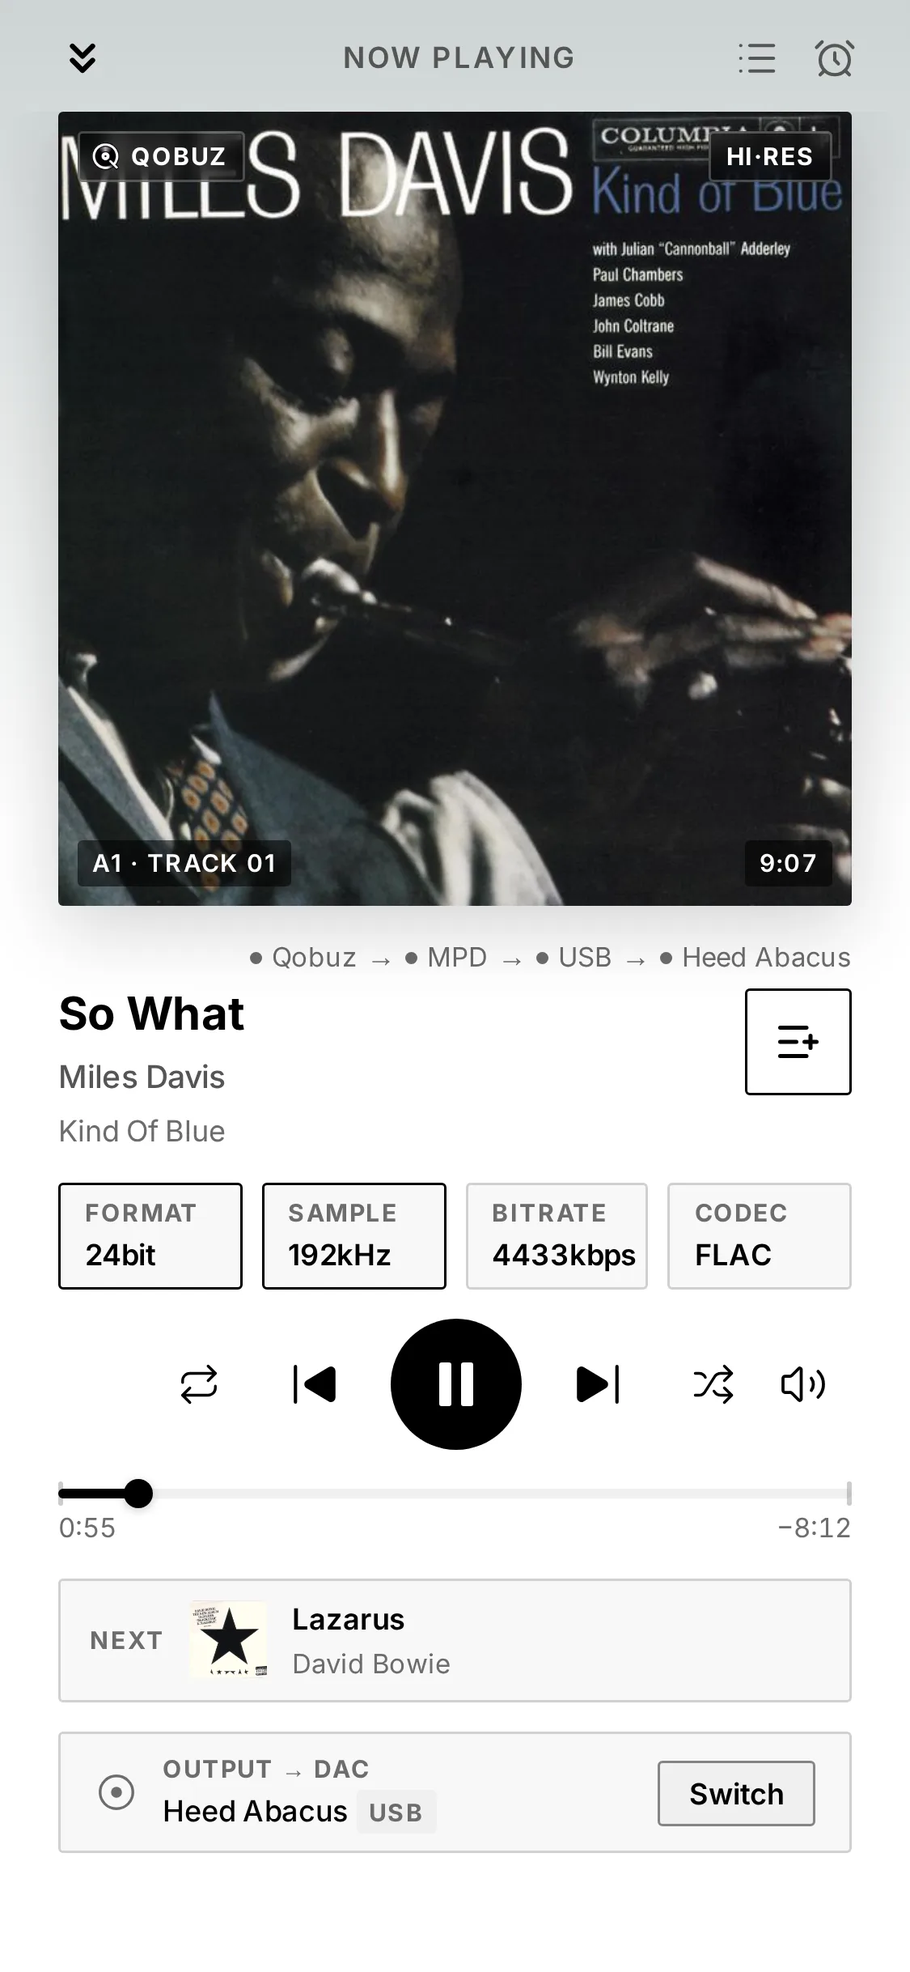
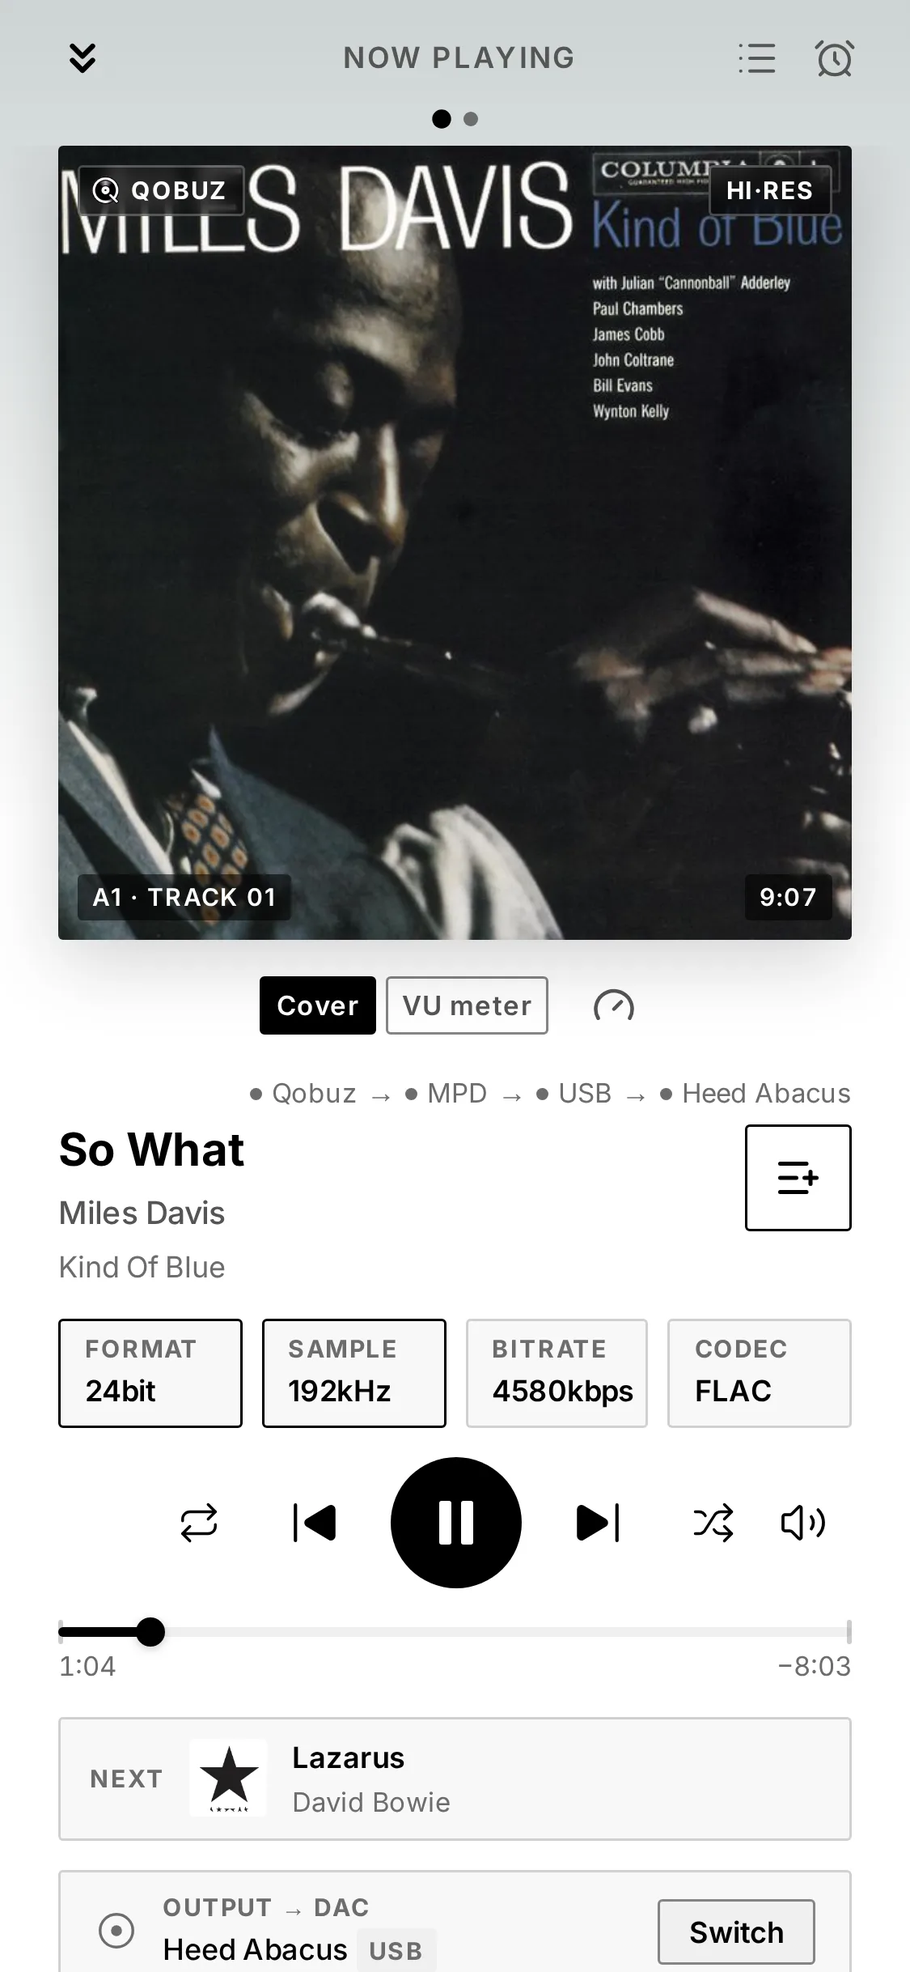
docs: describe the level meter in the manual and on the landing
Listening gains "The level meter": the Cover | VU meter switch, the
showcase, reading the dials, what it follows, the padlock without Pro;
the full-screen player's section names the switch and the phone held
sideways. Figures retaken with the switch (the player, the output busy)
and added (the meter, the showcase on its side), from So What and Lazarus
as before. The landing's last row of features in thirds, with a Pro card
for the meters. Changelog and release notes: the copy is on only while
MPD plays on the DAC, another player holding it included.

diff --git a/docs/manual/04-listening.html b/docs/manual/04-listening.html
@@ -75,6 +75,7 @@
             <ul class="man-outline">
                 <li><a href="#the-now-playing-bar">The Now Playing bar</a></li>
                 <li><a href="#the-fullscreen-player">The fullscreen player</a></li>
+                <li><a href="#the-level-meter">The level meter</a></li>
                 <li><a href="#the-queue">The Queue</a></li>
                 <li><a href="#the-live-hi-fi-readout">The live hi-fi readout</a></li>
                 <li><a href="#the-stream-origin-badge">The stream-origin badge</a></li>
@@ -96,10 +97,11 @@
             <article class="man-md">
 <h1>4. Listening</h1>
 <details class="man-outline-menu">
-<summary><span>On this page</span><span class="man-menu-count">9</span><svg class="man-menu-chev" viewBox="0 0 24 24" width="16" height="16" aria-hidden="true"><path d="m6 9 6 6 6-6"/></svg></summary>
+<summary><span>On this page</span><span class="man-menu-count">10</span><svg class="man-menu-chev" viewBox="0 0 24 24" width="16" height="16" aria-hidden="true"><path d="m6 9 6 6 6-6"/></svg></summary>
 <ul class="man-outline">
     <li><a href="#the-now-playing-bar">The Now Playing bar</a></li>
     <li><a href="#the-fullscreen-player">The fullscreen player</a></li>
+    <li><a href="#the-level-meter">The level meter</a></li>
     <li><a href="#the-queue">The Queue</a></li>
     <li><a href="#the-live-hi-fi-readout">The live hi-fi readout</a></li>
     <li><a href="#the-stream-origin-badge">The stream-origin badge</a></li>
@@ -139,6 +141,11 @@ can still turn off.</li>
 <li><strong>Album details</strong> — Album, Artist, Format, Genre, Year, Position, Source and the
 full <strong>Tracklist</strong>.</li>
 <li>A <strong>Queue</strong> view for what's coming up (see below).</li>
+<li>Under the cover, a <strong>Cover | VU meter</strong> switch puts a pair of VU meters in the
+cover's place — see <a href="#the-level-meter">The level meter</a>.</li>
+<li><strong>On a phone held on its side</strong> — with Portrait Lock off, see
+<a href="#portrait-lock">Portrait lock</a> — the whole player fits on one screen, with nothing
+to scroll.</li>
 <li>On a Qobuz or HIGHRESAUDIO track, an <strong>Add to playlist</strong> button beside the title puts
 the track into one of your playlists on that service — see
 <a href="05-library-streaming#adding-to-your-playlists">5. Library &amp; streaming</a>.</li>
@@ -159,7 +166,31 @@ is still arriving (wait a moment and try again); and a second jump asked for whi
 first is still being applied. See
 <a href="09-troubleshooting">9. Troubleshooting</a>.</p>
 </blockquote>
-<img loading="lazy" src="images/ios-fullscreen.webp" alt="The fullscreen player: cover art, signal path, the track with its add-to-playlist button, hi-fi format strip, transport, next track and output bar" width="360">
+<img loading="lazy" src="images/ios-fullscreen.webp" alt="The fullscreen player: cover art, the Cover | VU meter switch, signal path, the track with its add-to-playlist button, hi-fi format strip, transport, next track and output bar" width="360">
+<h2 id="the-level-meter">The level meter</h2>
+<p><em>Pro.</em> While the box plays with its own player — your library, Qobuz, Tidal,
+HIGHRESAUDIO or a radio station — the fullscreen player can show a pair of
+<strong>VU meters</strong> in the cover's place: one needle per channel, moving with the music as
+you hear it.</p>
+<ul>
+<li>Choose <strong>VU meter</strong> in the switch under the cover; <strong>Cover</strong> brings the artwork back.
+Each phone, tablet or computer keeps its own choice.</li>
+<li>The <strong>gauge</strong> button beside the switch opens the <strong>showcase</strong>: the meters and the
+track over the whole screen, for a tablet set beside your hi-fi. The screen stays
+awake while it is open, on browsers that allow it. Held on its side, a tablet or a
+phone shows the meters side by side; upright, one above the other. <strong>Exit</strong> brings
+the player back.</li>
+<li><strong>Reading the meters.</strong> The needles swing like those of a studio VU meter. <strong>0</strong> is
+the reference level; the heavy band from 0 to +3, the loudest passages. The <strong>PEAK</strong>
+lamp lights when the music goes past the end of the scale — even for an instant
+too short for the needle to show.</li>
+<li>Music sent to the box from another app — AirPlay, Roon, HQPlayer, or casting to the
+box as a network speaker — keeps the cover: the meters follow the box's own player
+only.</li>
+<li>Without Pro, the switch shows a padlock that opens the licence panel.</li>
+</ul>
+<img loading="lazy" src="images/ios-vu-meter.webp" alt="The fullscreen player with the two VU meters, left above right, in the cover's place, the Cover | VU meter switch and the showcase button under them" width="360">
+<img loading="lazy" src="images/ios-vu-showcase.webp" alt="The showcase on a phone held on its side: the left and right VU meters side by side, the track and its format below, and the Exit button" width="560">
 <h2 id="the-queue">The Queue</h2>
 <p>The <strong>Queue</strong> view shows the current track and what's coming up — for every source,
 including <strong>Qobuz, Tidal and HIGHRESAUDIO</strong> albums, with their real titles and artists

diff --git a/index.html b/index.html
@@ -827,7 +827,10 @@
                     <span class="fb-chip">FIDO2 · Face ID · YubiKey · RBAC</span>
                 </div>
 
-                <div class="fb span3">
+                <!-- The last row in thirds since the VU meters joined it: empty card space
+                     +15 / −20 / +58 px at 1440 / 1280 / 1024px (measured 2026-11-02), where the
+                     configs and signal-path row in thirds gave +130 / +76 / +109. -->
+                <div class="fb span2">
                     <span class="fb-tier starter">STARTER</span>
                     <div class="fb-icon"><svg viewBox="0 0 24 24"> <path d="M12 15V3" /> <path d="M21 15v4a2 2 0 0 1-2 2H5a2 2 0 0 1-2-2v-4" /> <path d="m7 10 5 5 5-5" /></svg></div>
                     <h3>One-click self-update, with automatic rollback</h3>
@@ -838,7 +841,7 @@
                     <span class="fb-chip">Update banner · health-check · auto rollback · no terminal</span>
                 </div>
 
-                <div class="fb span3 dark">
+                <div class="fb span2 dark">
                     <span class="fb-tier pro">PRO</span>
                     <div class="fb-icon"><svg viewBox="0 0 24 24"> <path d="M3 3v16a2 2 0 0 0 2 2h16" /> <path d="M18 17V9" /> <path d="M13 17V5" /> <path d="M8 17v-3" /></svg></div>
                     <h3>Your listening, in figures</h3>
@@ -847,6 +850,17 @@
                         how much was <b>Hi-Res or DSD</b>, the genres you came back to, your most played artists,
                         albums and tracks, with their covers. It stays on the box, and you can switch it off or clear it at any time.</p>
                     <span class="fb-chip">time listened · sources · outputs · Hi-Res share · genres · most played · stays on the box</span>
+                </div>
+
+                <div class="fb span2 dark">
+                    <span class="fb-tier pro">PRO</span>
+                    <div class="fb-icon"><svg viewBox="0 0 24 24"> <path d="m12 14 4-4" /> <path d="M3.34 19a10 10 0 1 1 17.32 0" /></svg></div>
+                    <h3>VU meters, in time with what you hear</h3>
+                    <p>Swap the cover for a pair of analog <b>VU meters</b>: a needle per channel, swinging with the
+                        music as it leaves your DAC, and a peak lamp for the loudest moments. Set a tablet beside the
+                        amplifier and open the <b>showcase</b> — the meters and the track fill the screen. Everything
+                        the box plays itself: your library, Qobuz, Tidal, HIGHRESAUDIO and internet radio.</p>
+                    <span class="fb-chip">left &amp; right needles · peak lamp · showcase mode · phone, tablet, computer</span>
                 </div>
             </div>
         </div>

diff --git a/CHANGELOG.md b/CHANGELOG.md
@@ -10,7 +10,7 @@ and this landing) are documented here. Format based on
 ## [Unreleased]
 
 ### Added
-- **[core][ui][site] A level meter: two needles that follow what the box's player plays, in step with the DAC.** In the full-screen player, a *Cover | VU meter* switch below the cover puts two dials in its place, left above right — the choice kept on each device —, and a *Showcase mode* button opens them over the whole screen, side by side in landscape, with what plays below: the screen stays on and the portrait lock is lifted while it is open. On a phone held sideways the showcase fits the screen — it overflowed 2 to 49 px, measured in Chromium on phone sizes —: the dials take the height left and *Exit* moves to the end of the track's line. The dials are drawn in one ink, the theme's text colour, in light and in dark alike: the scale's red zone is a heavier band of it, its figures bold, and the peak lamp a ring that fills. The needles read the RMS level of each 40 ms of the sound, 0 VU at −10 dBFS, and swing as a VU meter's do, 99 % of the way in 300 ms; a lamp lights above +3 VU. The levels come from a copy of MPD's stream: Audiogravi<sup>ty</sup> gives MPD a `fifo` output, *audiogravity-meter*, off, after the sound cards — the guided setup writes it, and the installer adds it to an MPD configuration Audiogravi<sup>ty</sup> wrote whose socket is in `/run/mpd`, then restarts MPD; a configuration without Audiogravi<sup>ty</sup>'s mark is left alone. The copy is on only while a screen shows the meter and the DAC plays: MPD reports a failed output only when all of them fail, so a copy left on would have kept it playing, silent and without an error, to a DAC that could not be opened — measured: with the copy on MPD said it played, with it off it paused on *Failed to open ALSA device*, which Audiogravi<sup>ty</sup> shows. On, it cost MPD 0.4 % of its core at 44.1 kHz and 4.2 % at 384 kHz on the lab's x86 box, and the DAC's buffer stayed as full as without it. The copy runs ahead of the sound — 3.4 ms a minute at 44.1 kHz, 11 in DSD128, 42 at 384 kHz, measured on the lab's DAC —, so each window waits until the card has played it, read from the card's position in the kernel: the needles move with what is heard, through a seek, a pause or a new track. Only a stride of the samples is read: over a whole track, its levels were within 0.12 dB of every sample's on nine windows in ten, the median 0.00 dB. DSD is read from its density of ones. On a box where MPD turns DSD into PCM before its volume (`audio_output_format "*:32:*"`), the copy is read in the format MPD's outputs receive, which MPD's status does not name — it names the file's. The copy is left out of every list of MPD's outputs: the output switch, DoP and the DSD readings see the sound cards only. A copy left on — a core stopped while a screen showed the meter, MPD restarting when the last one closed — is turned off as soon as MPD answers. Paused, the meter does nothing until MPD plays again. With the copy on, MPD wrote *Decoder is too slow; playing silence to avoid xrun* at each start of a 384 kHz or DSD256 track (8 out of 8, none out of 2 without it), at the very start only; whether it can be heard was not checked. For what the box's own MPD plays — its music, the radio, the streaming services —: for AirPlay, Roon, HQPlayer or a network speaker the switch is not offered, an open showcase says why in the dials' place, and nothing is turned on. Pro: on a box without it, the switch shows a padlock that opens the licence panel. New: `GET /player/levels` (server-sent events, Pro), `PlayerState.level_meter`.
+- **[core][ui][site] A level meter: two needles that follow what the box's player plays, in step with the DAC.** In the full-screen player, a *Cover | VU meter* switch below the cover puts two dials in its place, left above right — the choice kept on each device —, and a *Showcase mode* button opens them over the whole screen, side by side in landscape, with what plays below: the screen stays on and the portrait lock is lifted while it is open. On a phone held sideways the showcase fits the screen — it overflowed 2 to 49 px, measured in Chromium on phone sizes —: the dials take the height left and *Exit* moves to the end of the track's line. The dials are drawn in one ink, the theme's text colour, in light and in dark alike: the scale's red zone is a heavier band of it, its figures bold, and the peak lamp a ring that fills. The needles read the RMS level of each 40 ms of the sound, 0 VU at −10 dBFS, and swing as a VU meter's do, 99 % of the way in 300 ms; a lamp lights above +3 VU. The levels come from a copy of MPD's stream: Audiogravi<sup>ty</sup> gives MPD a `fifo` output, *audiogravity-meter*, off, after the sound cards — the guided setup writes it, and the installer adds it to an MPD configuration Audiogravi<sup>ty</sup> wrote whose socket is in `/run/mpd`, then restarts MPD; a configuration without Audiogravi<sup>ty</sup>'s mark is left alone. The copy is on only while a screen shows the meter and MPD plays on the DAC: MPD reports a failed output only when all of them fail, so a copy left on would have kept it playing, silent and without an error, to a DAC that could not be opened — measured: with the copy on MPD said it played, with it off it paused on *Failed to open ALSA device*, which Audiogravi<sup>ty</sup> shows. A DAC another player holds — Roon, AirPlay, any program — does not count: the process holding the card, which the kernel names, must be MPD's. With the copy on for such a DAC, Play had MPD say it played, silent, where it says *Device or resource busy* — measured with the DAC held by another program, before and after. On, it cost MPD 0.4 % of its core at 44.1 kHz and 4.2 % at 384 kHz on the lab's x86 box, and the DAC's buffer stayed as full as without it. The copy runs ahead of the sound — 3.4 ms a minute at 44.1 kHz, 11 in DSD128, 42 at 384 kHz, measured on the lab's DAC —, so each window waits until the card has played it, read from the card's position in the kernel: the needles move with what is heard, through a seek, a pause or a new track. Only a stride of the samples is read: over a whole track, its levels were within 0.12 dB of every sample's on nine windows in ten, the median 0.00 dB. DSD is read from its density of ones. On a box where MPD turns DSD into PCM before its volume (`audio_output_format "*:32:*"`), the copy is read in the format MPD's outputs receive, which MPD's status does not name — it names the file's. The copy is left out of every list of MPD's outputs: the output switch, DoP and the DSD readings see the sound cards only. A copy left on — a core stopped while a screen showed the meter, MPD restarting when the last one closed — is turned off as soon as MPD answers. Paused, the meter does nothing until MPD plays again. With the copy on, MPD wrote *Decoder is too slow; playing silence to avoid xrun* at each start of a 384 kHz or DSD256 track (8 out of 8, none out of 2 without it), at the very start only; whether it can be heard was not checked. For what the box's own MPD plays — its music, the radio, the streaming services —: for AirPlay, Roon, HQPlayer or a network speaker the switch is not offered, an open showcase says why in the dials' place, and nothing is turned on. Pro: on a box without it, the switch shows a padlock that opens the licence panel. New: `GET /player/levels` (server-sent events, Pro), `PlayerState.level_meter`. The manual's *Listening* chapter describes it under *The level meter*, with the player and the showcase on a phone held sideways, and the landing lists it among the Pro features.
 - **[site][manual] Search engines and link previews know what each guide, post and chapter is.** A page pasted into a forum or a message shows a preview: a post's photograph, wide; the site's logo for a guide, a chapter or a list — not the landing's own preview, whose price and *Install now* would make a guide read as an advertisement. Each page describes itself to search engines in schema.org terms: an article — a post with the day it was published —, the latest day its *Checked on* line names, and its path from home, *Audiogravi<sup>ty</sup> › Guides › …*, which a result can show in place of the address; the lists of guides, posts and chapters describe themselves as collections. A chapter's snippet in search results takes the Contents' words for it — *Listening — sources, transport, the Now Playing screen* — where it gave its name alone. The first image of every page loads at once and the others as they near the screen: a post's photograph, the largest thing on screen when it opens and which search engines time, was fetched after the layout.
 - **[site] Finding your way in the guides, the blog and the manual.** The top bar links the guides and the blog to each other, the section being read underlined; the manual's names the manual alone, and a guide that has something to say about Audiogravi<sup>ty</sup> links to the chapter that says it, in its text. Below 360 px wide, the bar keeps the logo without the name. A page's parts are listed under its own entry in the sidebar, the part being read marked as the page scrolls and kept in view — a chapter runs to 33 parts, a post to 13 screens on a phone —; on a phone they are in an *On this page* menu under the title. Each page ends on the page before it and the page after it in its list — on the blog, the newer and the older post —, and on a link back to the list. The guides are filed under four themes, in their list and in the sidebar, each title on a line of its own with what it answers under it; the "Guide N" under their titles is gone. The blog's front page shows its posts as cards, each with its photograph — which grows a little under the pointer, and stays still for whoever asked for less motion —, its date written out and its reading time. Each guide's short answer sits in a box at the top, and the line saying what a guide or a post was checked or measured against, and when, moves under its title, after a check mark.
 - **[site][manual] A community for owners, on GitHub Discussions.** The landing's footer links it as *Community*, beside *Issues*; the roadmap's invitation to say which direction matters most now leads to the community's *Ideas*, instead of the issues; the manual's *Getting help* sends questions, ideas and setups there, and keeps bug reports for the issues. A pinned welcome says where each kind of post goes.

diff --git a/docs/manual/04-listening.md b/docs/manual/04-listening.md
@@ -35,6 +35,11 @@ Album, Artist, Year, Genre, Format, Position, Source — and its tracklist.
 - **Album details** — Album, Artist, Format, Genre, Year, Position, Source and the
   full **Tracklist**.
 - A **Queue** view for what's coming up (see below).
+- Under the cover, a **Cover | VU meter** switch puts a pair of VU meters in the
+  cover's place — see [The level meter](#the-level-meter).
+- **On a phone held on its side** — with Portrait Lock off, see
+  [Portrait lock](#portrait-lock) — the whole player fits on one screen, with nothing
+  to scroll.
 - On a Qobuz or HIGHRESAUDIO track, an **Add to playlist** button beside the title puts
   the track into one of your playlists on that service — see
   [5. Library & streaming](05-library-streaming.md#adding-to-your-playlists).
@@ -54,7 +59,34 @@ Album, Artist, Year, Genre, Format, Position, Source — and its tracklist.
 > first is still being applied. See
 > [9. Troubleshooting](09-troubleshooting.md).
 
-<img src="images/ios-fullscreen.webp" alt="The fullscreen player: cover art, signal path, the track with its add-to-playlist button, hi-fi format strip, transport, next track and output bar" width="360">
+<img src="images/ios-fullscreen.webp" alt="The fullscreen player: cover art, the Cover | VU meter switch, signal path, the track with its add-to-playlist button, hi-fi format strip, transport, next track and output bar" width="360">
+
+## The level meter
+
+*Pro.* While the box plays with its own player — your library, Qobuz, Tidal,
+HIGHRESAUDIO or a radio station — the fullscreen player can show a pair of
+**VU meters** in the cover's place: one needle per channel, moving with the music as
+you hear it.
+
+- Choose **VU meter** in the switch under the cover; **Cover** brings the artwork back.
+  Each phone, tablet or computer keeps its own choice.
+- The **gauge** button beside the switch opens the **showcase**: the meters and the
+  track over the whole screen, for a tablet set beside your hi-fi. The screen stays
+  awake while it is open, on browsers that allow it. Held on its side, a tablet or a
+  phone shows the meters side by side; upright, one above the other. **Exit** brings
+  the player back.
+- **Reading the meters.** The needles swing like those of a studio VU meter. **0** is
+  the reference level; the heavy band from 0 to +3, the loudest passages. The **PEAK**
+  lamp lights when the music goes past the end of the scale — even for an instant
+  too short for the needle to show.
+- Music sent to the box from another app — AirPlay, Roon, HQPlayer, or casting to the
+  box as a network speaker — keeps the cover: the meters follow the box's own player
+  only.
+- Without Pro, the switch shows a padlock that opens the licence panel.
+
+<img src="images/ios-vu-meter.webp" alt="The fullscreen player with the two VU meters, left above right, in the cover's place, the Cover | VU meter switch and the showcase button under them" width="360">
+
+<img src="images/ios-vu-showcase.webp" alt="The showcase on a phone held on its side: the left and right VU meters side by side, the track and its format below, and the Exit button" width="560">
 
 
 ## The Queue

diff --git a/RELEASE_NOTES.md b/RELEASE_NOTES.md
@@ -16,7 +16,8 @@ screen stays on, for a box on a shelf.
 The needles move with the sound you hear: the box waits until your DAC has played each moment
 before showing it, whatever the format, DSD included. They follow what the box's own player
 plays — the music on the box, the radio, Qobuz, Tidal and HIGHRESAUDIO —, not AirPlay, Roon,
-HQPlayer or a network speaker, and nothing runs for them while no screen shows them. With Pro.
+HQPlayer or a network speaker, and nothing runs for them while no screen shows them. They hide
+no problem: if another player holds your DAC, Play still tells you so. With Pro.
 
 **The full-screen player fits a phone held sideways.** Turn your phone and everything shows at
 once, as on a tablet: the cover — or the level meter — on the left, the track, the controls and
